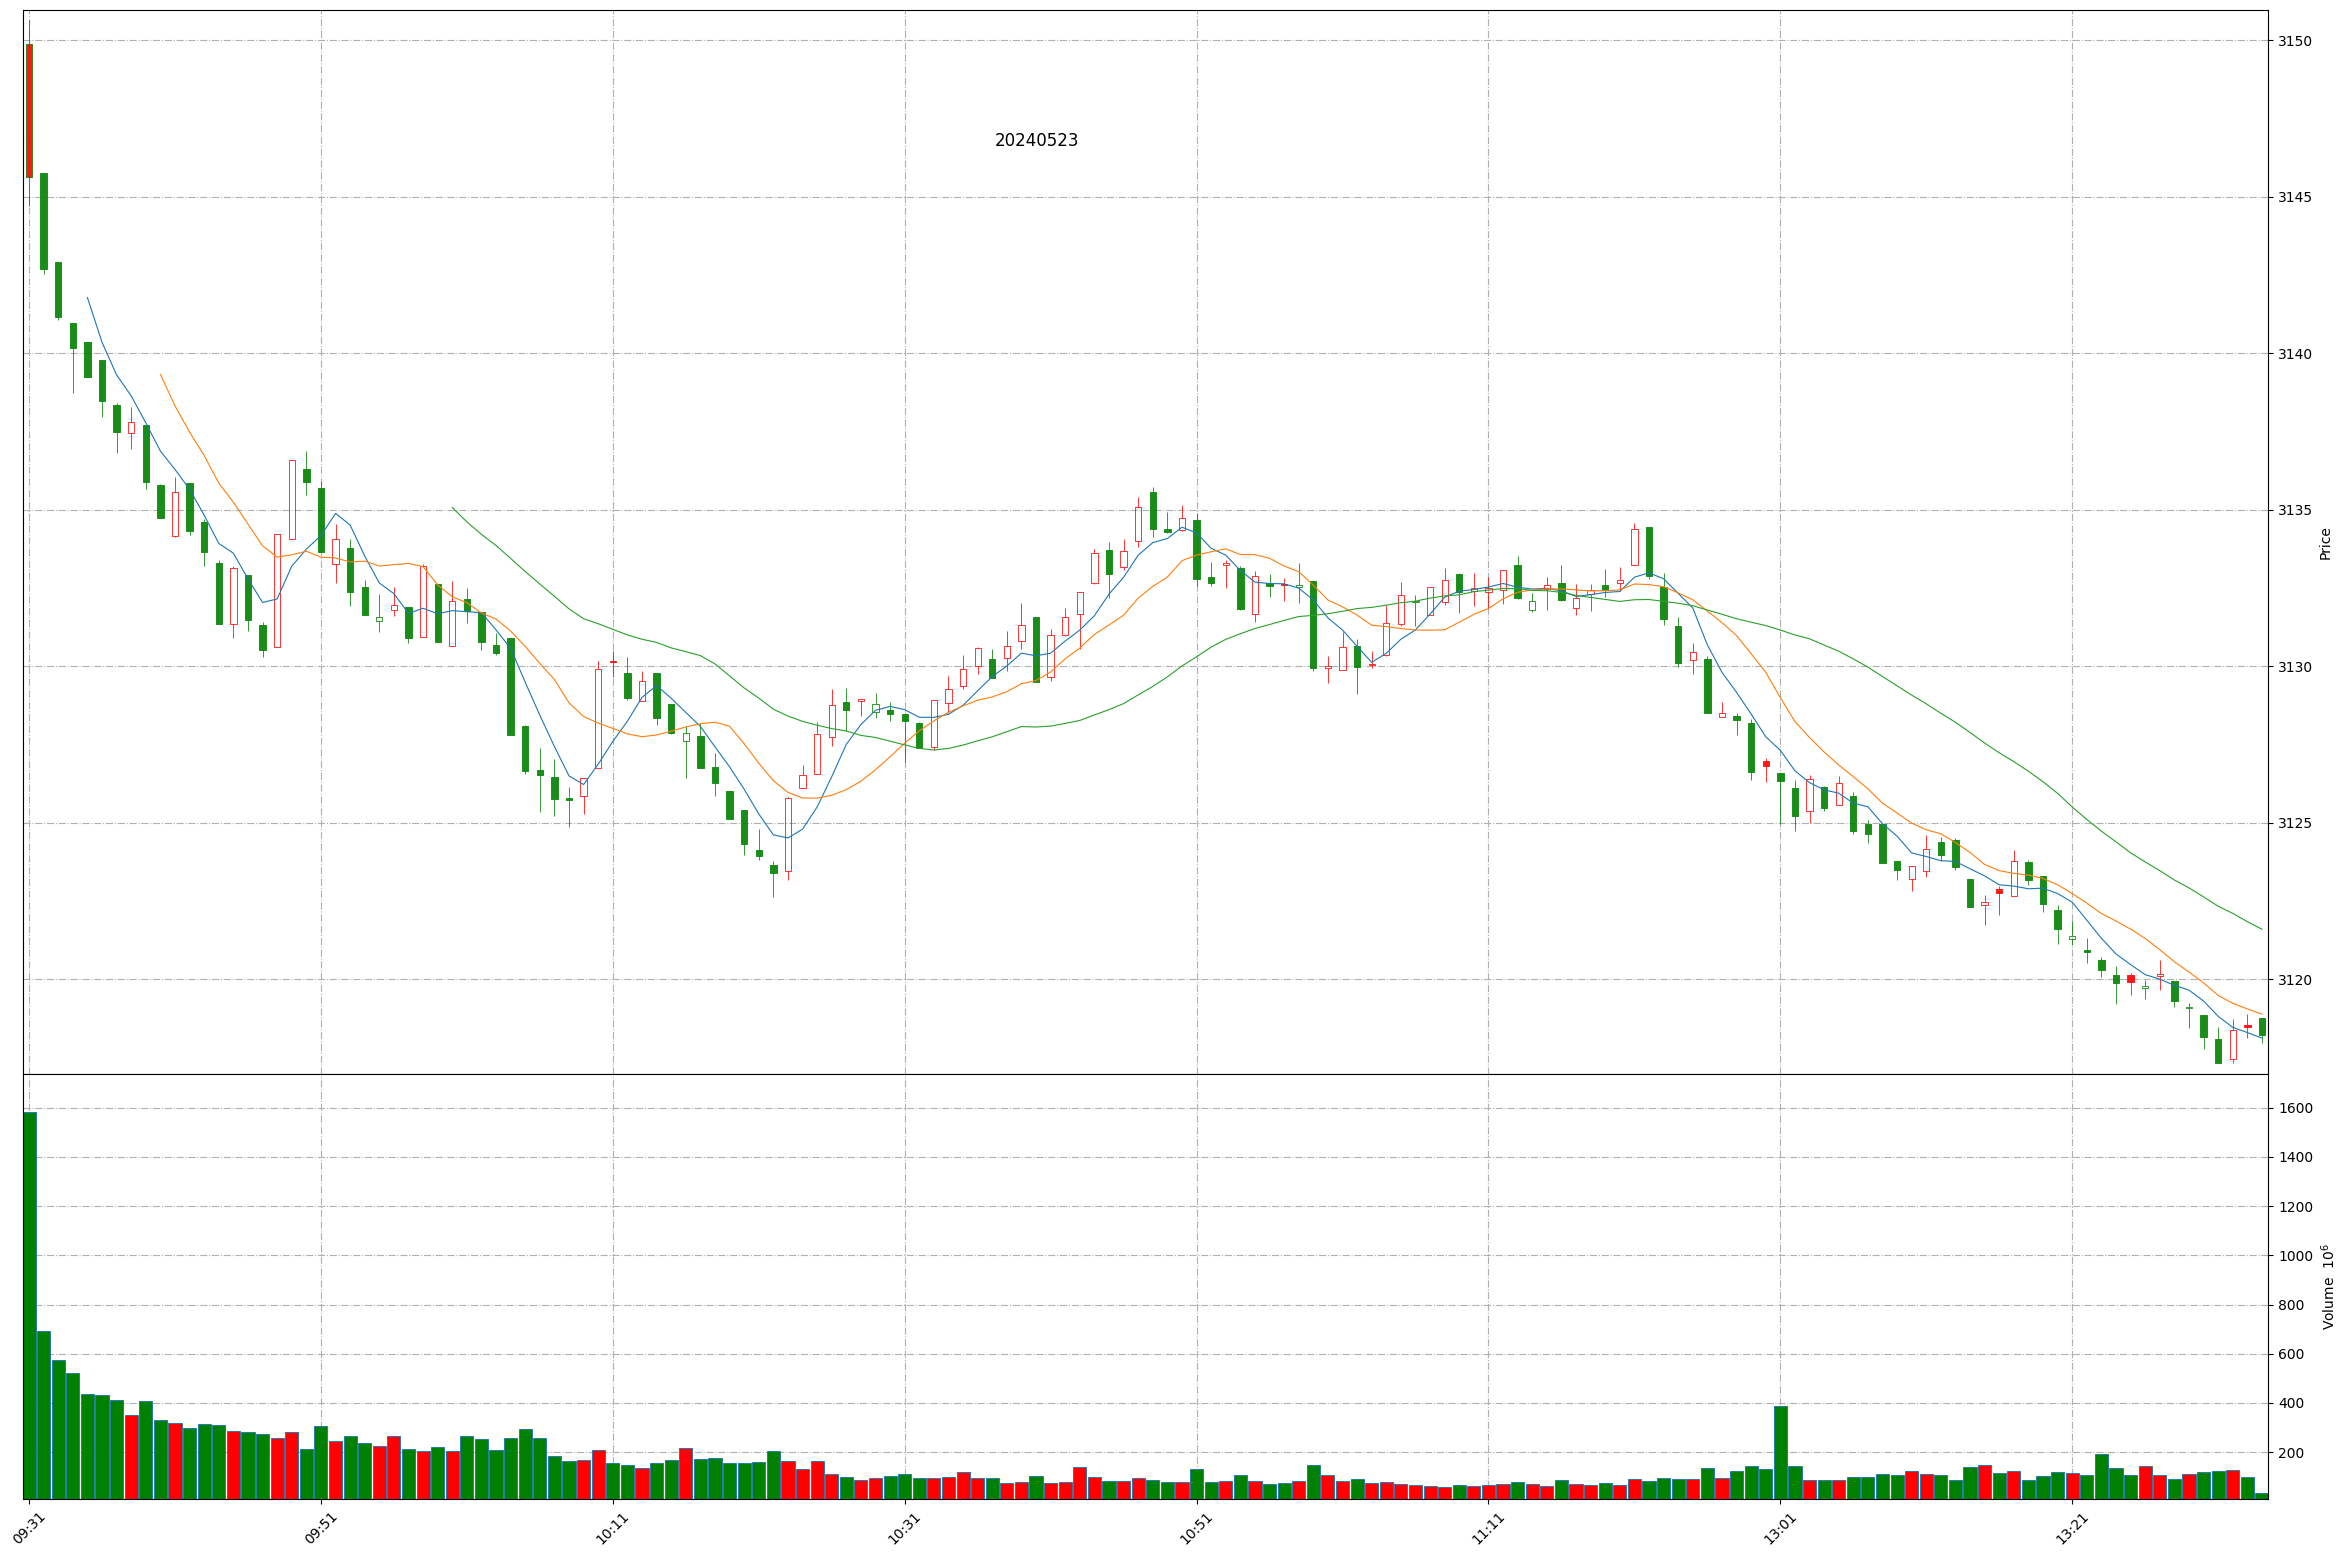
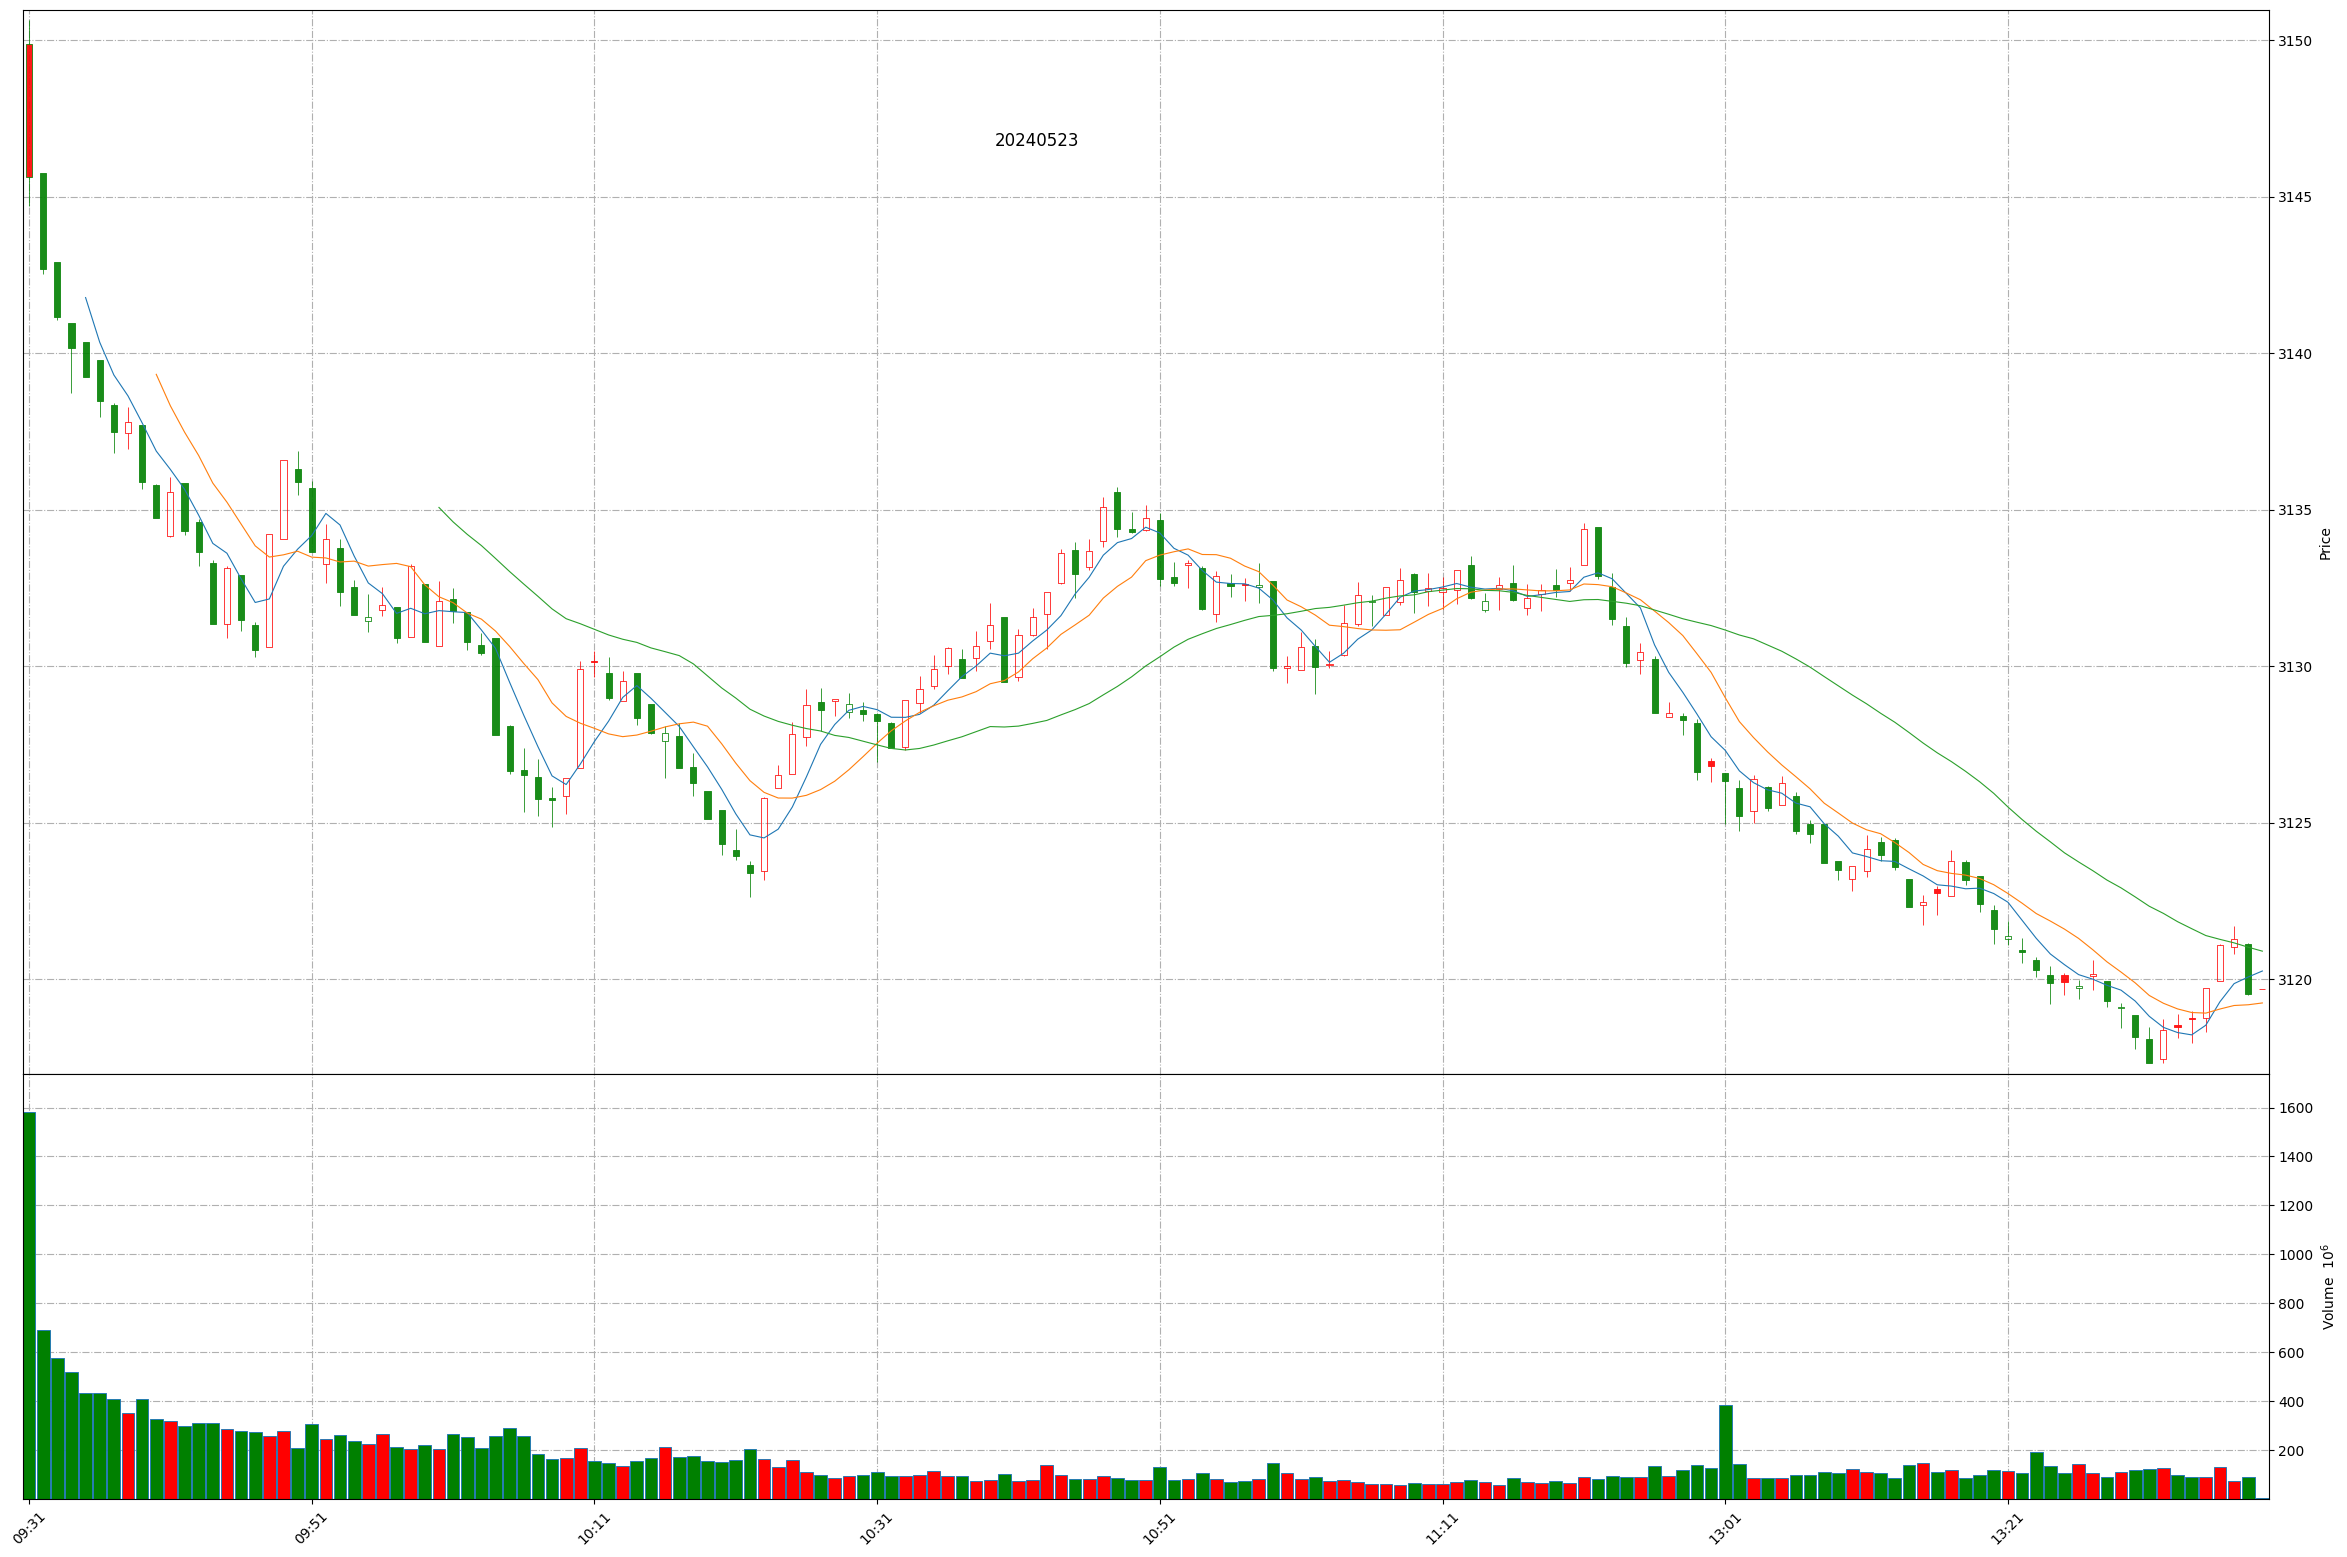
Github action update at 2024-05-23 13:38:20.

Changed region(s): [[0.0622, 0.2775, 0.9642, 0.6782], [0.0311, 0.894, 0.9642, 0.9865], [0.0311, 0.2158, 0.0622, 0.2775]]

diff --git a/README.md b/README.md
@@ -1,11 +1,11 @@
 
 # Daily-A-share-market-quotes 每日 A 股指数（5min 更新）- 20240523
 
-### 上证指数 20240523 13:33
+### 上证指数 20240523 13:38
 ![](./fig/2024/5/20240523-sh000001.png)
 
-### 深证成指 20240523 13:33
+### 深证成指 20240523 13:38
 ![](./fig/2024/5/20240523-sz399001.png)
 
-### 北证50 20240523 13:33
+### 北证50 20240523 13:38
 ![](./fig/2024/5/20240523-bj899050.png)
